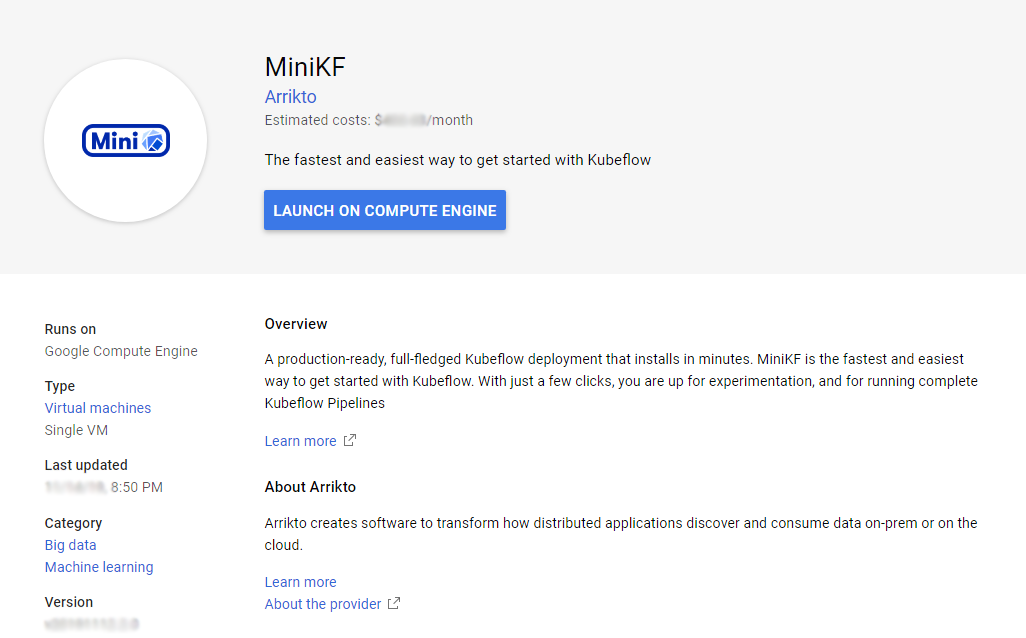
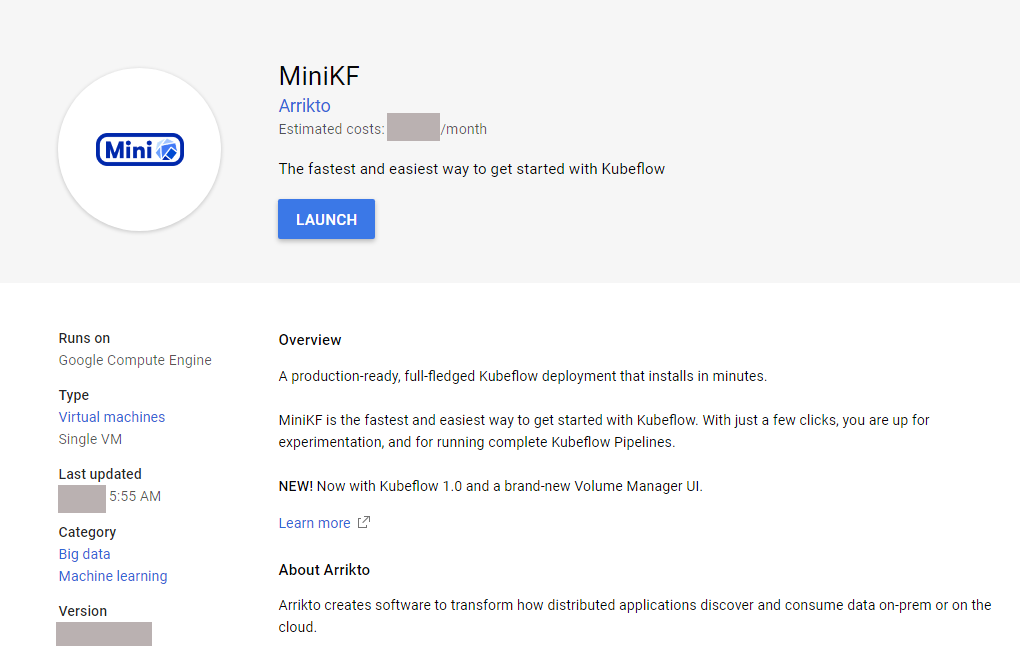
Update the MiniKF-on-GCP guide (#1786)
Update the MiniKF-on-GCP guide to:
- Add a banner that always shows the latest version of MiniKF and
Kubeflow
- Replace a screenshot so that the guide is consistent with the UI
changes on GCP
- Replace a screenshot to show the GPU selection/configuration when
deploying MiniKF

diff --git a/content/docs/started/workstation/minikf-gcp.md b/content/docs/started/workstation/minikf-gcp.md
@@ -4,6 +4,10 @@ description = "Instructions for using the Google Cloud Marketplace to deploy Min
 weight = 40
 +++
 
+![MiniKF latest
+version](https://www.arrikto.com/wp-content/uploads/2020/02/minikf-latest-version-gcp.svg
+"MiniKF latest version")
+
 This guide describes how to launch a MiniKF virtual machine (VM) on GCP. MiniKF
 is a single VM solution on the Google Cloud Marketplace, and installs:
 
@@ -14,7 +18,7 @@ is a single VM solution on the Google Cloud Marketplace, and installs:
 - Arrikto's Rok, a data management software for data versioning and
   reproducibility
 
-MiniKF installs Kubeflow 0.7.0 and supports NVIDIA GPUs.
+MiniKF supports NVIDIA GPUs.
 ### Before you start
 
 Before installing MiniKF, make sure that your GCP project meets the minimum
@@ -40,7 +44,7 @@ To install MiniKF on GCP, follow the steps below:
 1. Go to the [MiniKF page](https://console.cloud.google.com/marketplace/details/arrikto-public/minikf?q=minikf&id=1f5eac28-1808-4969-b6fa-2cc231a23f45) on
 Google Cloud Marketplace.
 
-2. Click on the **Launch on Compute Engine** button
+2. Click on the **LAUNCH** button
 
      <img src="/docs/images/minikf-launch.png"
        alt="Launch MiniKF on GCP"
@@ -48,15 +52,17 @@ Google Cloud Marketplace.
   
 3. In the **Configure & Deploy** window, choose:
 
-  - **name**: a name for your MiniKF instance
-  - **zone**: the GCP zone that you will deploy MiniKF
-  - **machine type**: a machine type with at least 2 vCPUs and 16 GB of RAM. If
+  - **Deployment name**: a name for your MiniKF instance
+  - **Zone**: the GCP zone that you will deploy MiniKF
+  - **Machine type**: a machine type with at least 2 vCPUs and 16 GB of RAM. If
     in doubt, use the default machine type, n1–standard-8, which has 8 vCPUs and
     30 GB of RAM.
-  - **boot disk**: A boot disk. This is the disk that holds the images that MiniKF
+  - **Boot Disk**: a boot disk. This is the disk that holds the images that MiniKF
     needs. Use the default value of 200 GB SSD Persistent Disk.
-  - **data disk**: A data disk. This is the disk that holds your snapshots. Use
+  - **Data Disk**: a data disk. This is the disk that holds your snapshots. Use
     an SSD Persistent Disk of at least 500 GB capacity.
+  - **GPUs**: add one or more GPUs if you are running computationally intensive
+    ML workloads.
 
      Then click **Deploy**:
 
